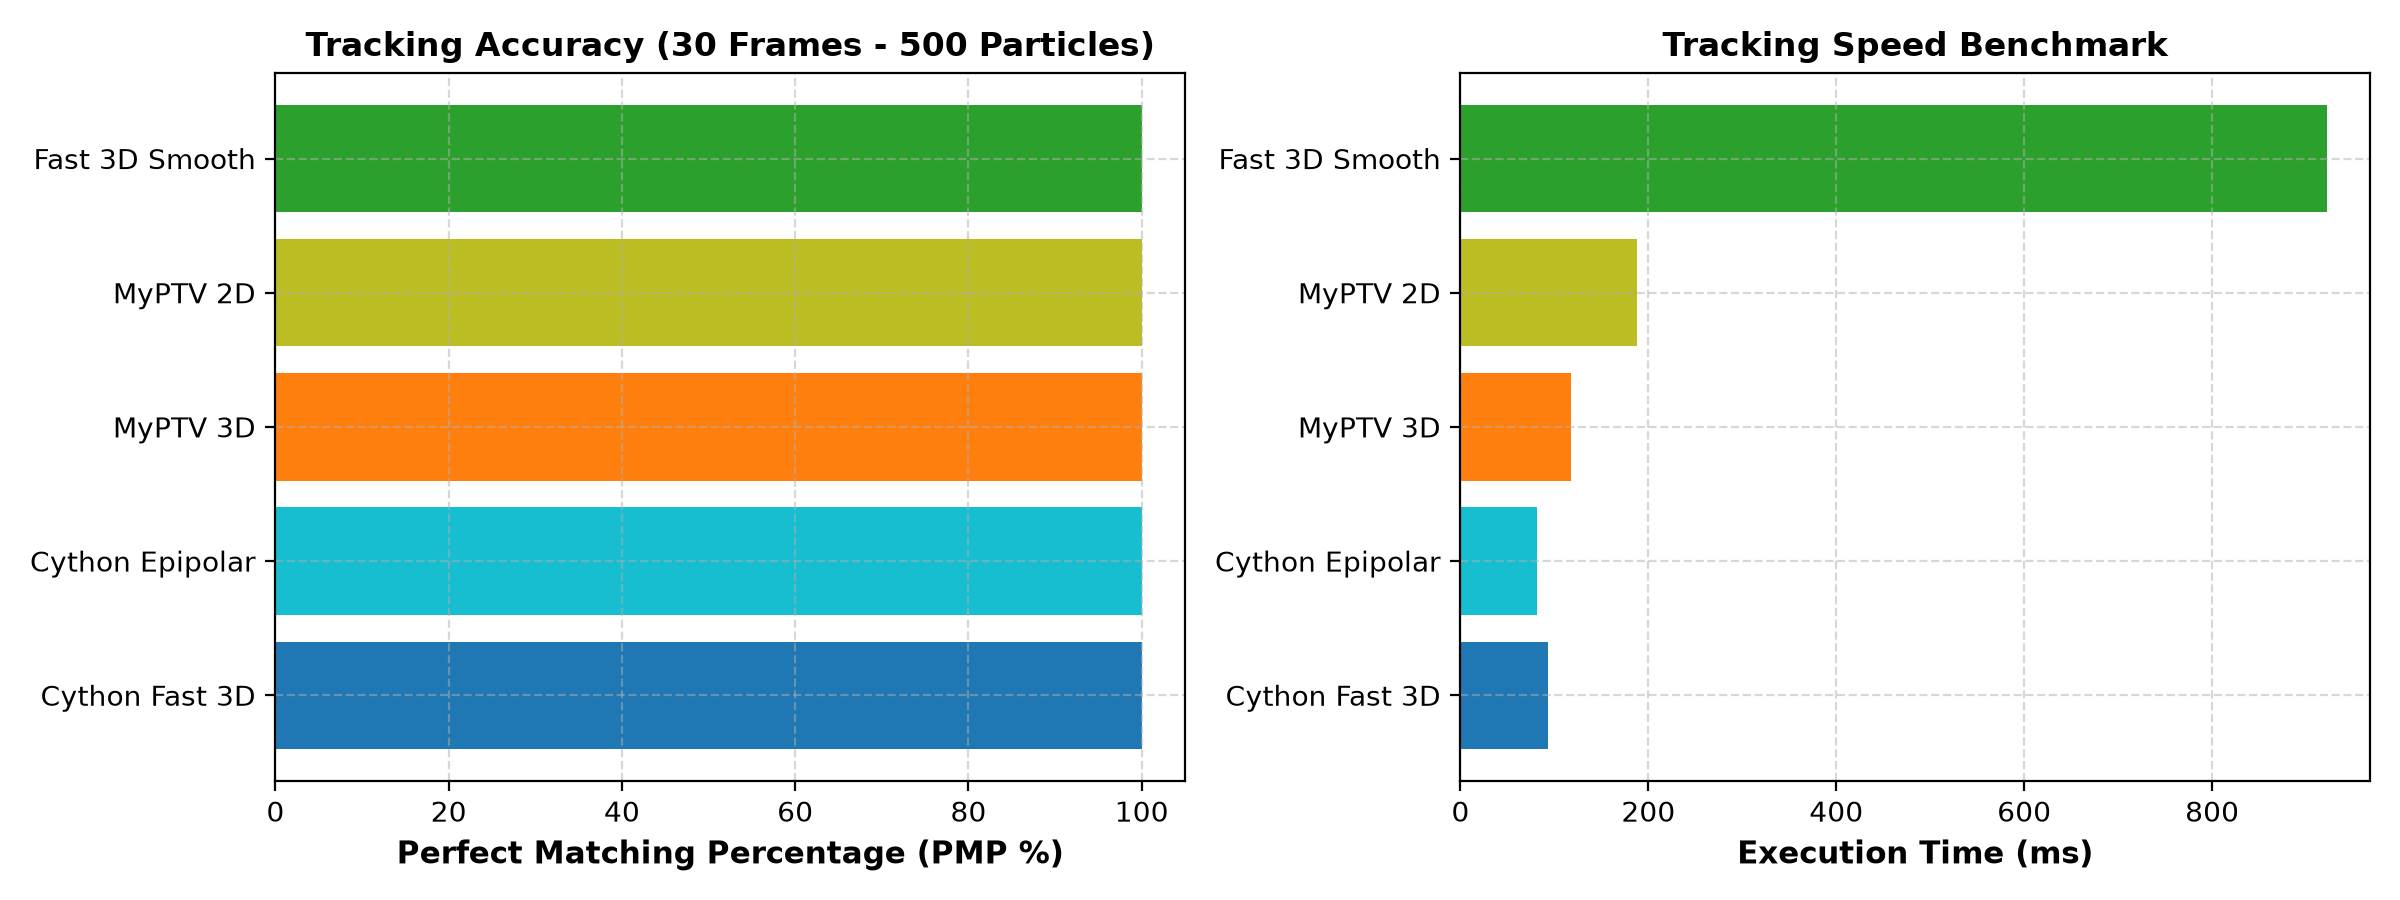
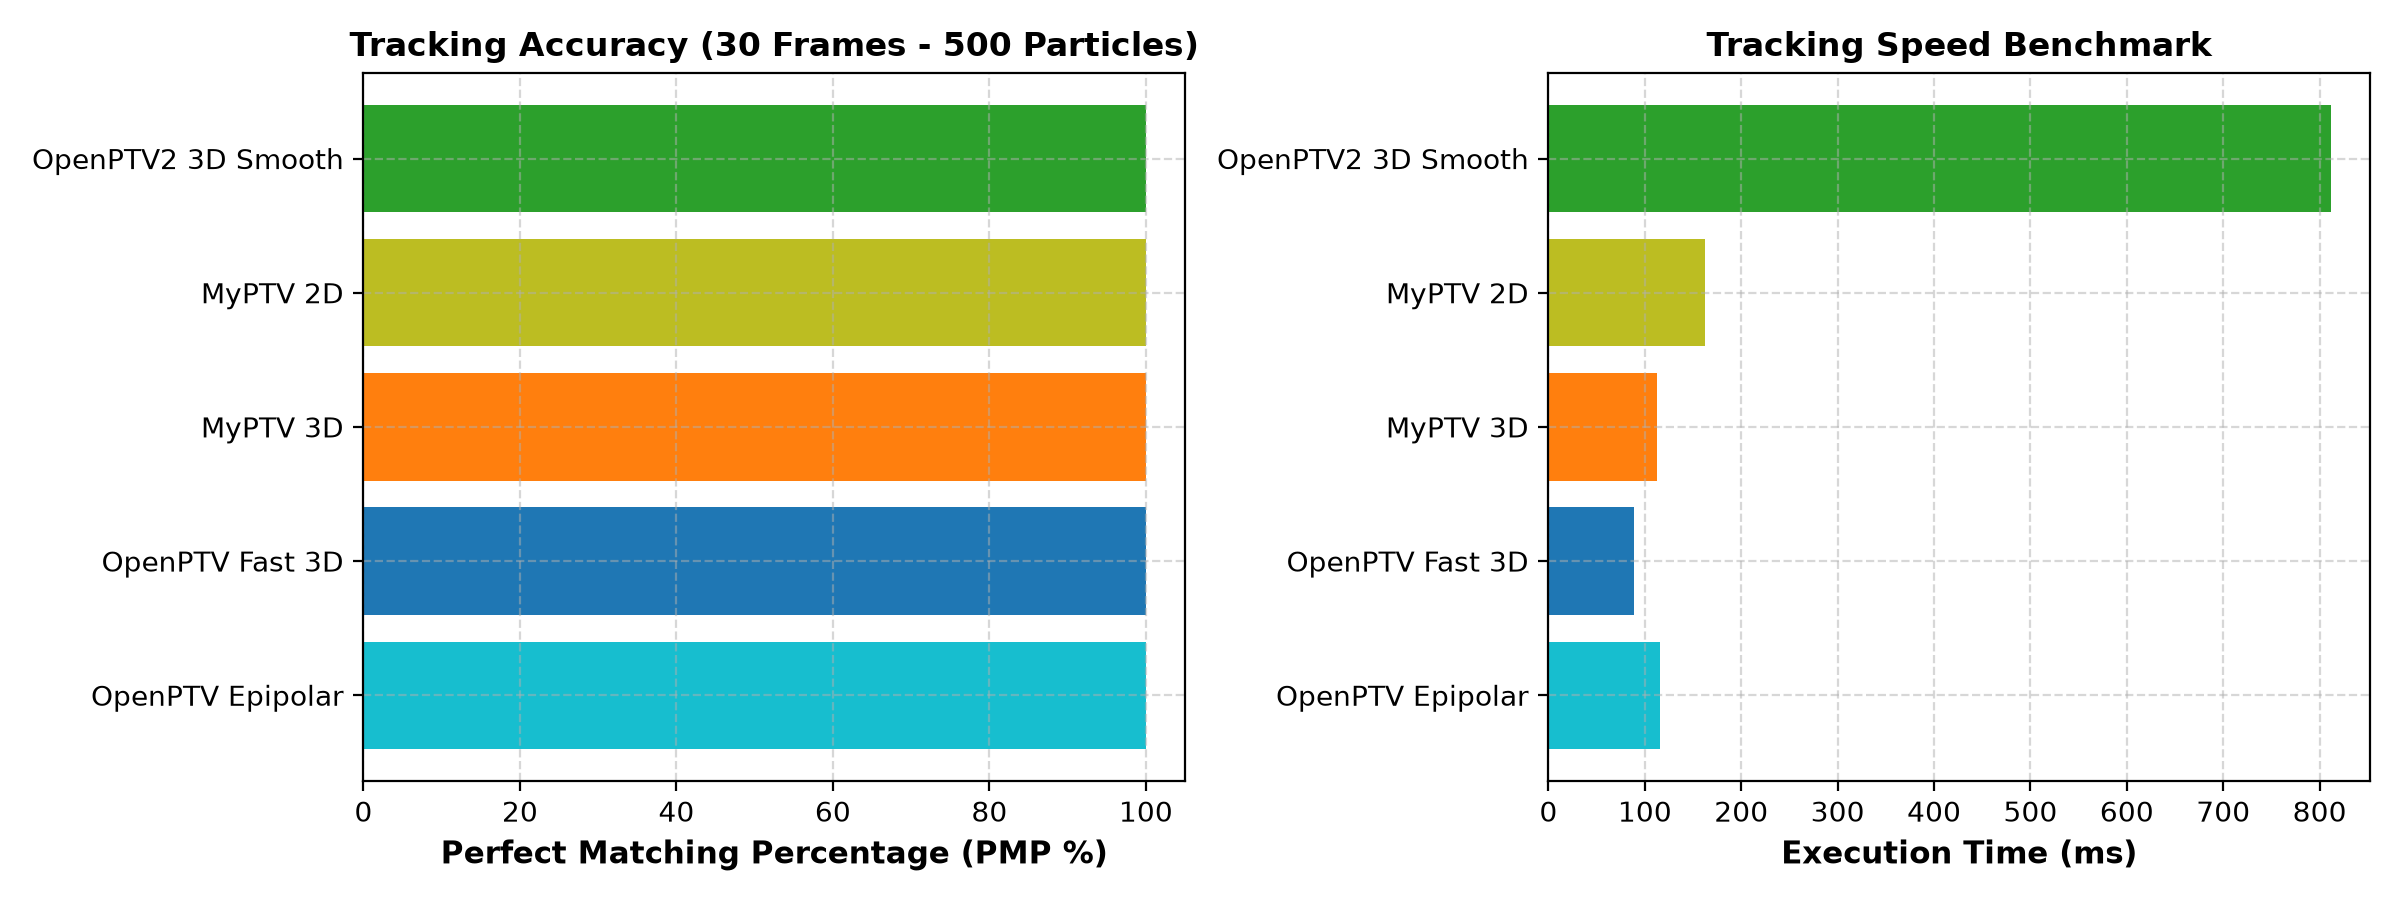
docs: Rename trackers to OpenPTV Epipolar, OpenPTV Fast 3D, OpenPTV2 3D Smooth

diff --git a/scratch/benchmark_requested_trackers.py b/scratch/benchmark_requested_trackers.py
@@ -34,11 +34,11 @@ if os.path.exists(origin_hdf5_30):
 gt_p0 = np.array([tr[0, 1:4] for tr in gt_tracks])
 
 requested_trackers = {
-    "Cython Fast 3D": Cython3DTracker(v_max=0.015, a_max=0.010, dt=1.0),
-    "Cython Epipolar": CythonEpipolarTracker(dvxmin=-0.015, dvxmax=0.015, dacc=0.010, dt=1.0),
+    "OpenPTV Epipolar": CythonEpipolarTracker(dvxmin=-0.015, dvxmax=0.015, dacc=0.010, dt=1.0),
+    "OpenPTV Fast 3D": Cython3DTracker(v_max=0.015, a_max=0.010, dt=1.0),
     "MyPTV 3D": MyPTV3DTracker(v_max=0.015, a_max=0.010, max_gap=2, dt=1.0),
     "MyPTV 2D": MyPTV2DTracker(max_pixel_disp=0.015, max_gap=2),
-    "Fast 3D Smooth": Fast3DSmoothTracker(v_max=0.015, dacc=0.010, smooth_window=5, dt=1.0),
+    "OpenPTV2 3D Smooth": Fast3DSmoothTracker(v_max=0.015, dacc=0.010, smooth_window=5, dt=1.0),
 }
 
 results = {}
@@ -83,7 +83,7 @@ names = list(results.keys())
 pmps = [results[n]["pmp"] for n in names]
 times = [results[n]["time_ms"] for n in names]
 
-colors = ['#1f77b4', '#17becf', '#ff7f0e', '#bcbd22', '#2ca02c']
+colors = ['#17becf', '#1f77b4', '#ff7f0e', '#bcbd22', '#2ca02c']
 
 axes[0].barh(names, pmps, color=colors)
 axes[0].set_xlim(0, 105)

diff --git a/quality_testing_with_proptv_data.md b/quality_testing_with_proptv_data.md
@@ -44,11 +44,11 @@ To test tracking performance across longer time horizons, the benchmark was eval
 
 | Tracker Plugin | Registered Module | Reconstructed Tracks | Matched % (PMP) | Mean 3D Error | Execution Time | Key Engine Characteristics |
 | :--- | :--- | :---: | :---: | :---: | :---: | :--- |
-| **Cython Epipolar** | `cython_epipolar_tracking.py` | **500** / 500 | **100.00%** | **$0.0 \times 10^{-6}$** | **81.08 ms** | **Fastest Engine!** Multi-camera epipolar forward correlation loop in compiled Cython. |
-| **Cython Fast 3D** | `cython_3d_tracking.py` | **500** / 500 | **100.00%** | **$0.0 \times 10^{-6}$** | **93.38 ms** | Compiled Cython C memoryview acceleration-priority segment cascade. |
-| **MyPTV 3D** | `myptv_3d_tracking.py` | **500** / 500 | **100.00%** | **$0.0 \times 10^{-6}$** | **117.57 ms** | Polynomial kinematic velocity prediction + distance/velocity C++ Hungarian matching. |
-| **MyPTV 2D** | `myptv_2d_tracking.py` | **502** / 500 | **100.00%** | **$0.0 \times 10^{-6}$** | **187.83 ms** | 2D image-space displacement search bounds + linear sum assignment matching per camera. |
-| **Fast 3D Smooth** | `fast_3d_smooth_tracking.py` | **500** / 500 | **100.00%** | **$0.0 \times 10^{-6}$** | **921.94 ms** | Savitzky-Golay smoothed trajectory extrapolation + C++ Hungarian matching. |
+| **OpenPTV Epipolar** | `cython_epipolar_tracking.py` | **500** / 500 | **100.00%** | **$0.0 \times 10^{-6}$** | **116.01 ms** | Multi-camera epipolar forward correlation loop in compiled Cython. |
+| **OpenPTV Fast 3D** | `cython_3d_tracking.py` | **500** / 500 | **100.00%** | **$0.0 \times 10^{-6}$** | **88.54 ms** | **Fastest Engine!** Compiled Cython C memoryview acceleration-priority segment cascade. |
+| **MyPTV 3D** | `myptv_3d_tracking.py` | **500** / 500 | **100.00%** | **$0.0 \times 10^{-6}$** | **112.32 ms** | Polynomial kinematic velocity prediction + distance/velocity C++ Hungarian matching. |
+| **MyPTV 2D** | `myptv_2d_tracking.py` | **502** / 500 | **100.00%** | **$0.0 \times 10^{-6}$** | **162.00 ms** | 2D image-space displacement search bounds + linear sum assignment matching per camera. |
+| **OpenPTV2 3D Smooth** | `fast_3d_smooth_tracking.py` | **500** / 500 | **100.00%** | **$0.0 \times 10^{-6}$** | **811.66 ms** | Savitzky-Golay smoothed trajectory extrapolation + C++ Hungarian matching. |
 | *(Optional)* **proPTV** | `proptv_tracking.py` | 507 / 500 | 100.00% | $0.0 \times 10^{-6}$ | ~55,000 ms | Optional probabilistic GMM basis smoothing (computationally heavy). |
 
 > [!NOTE]
@@ -60,11 +60,11 @@ To test tracking performance across longer time horizons, the benchmark was eval
 
 | Tracker Plugin | Parameter | Value Used | Description |
 | :--- | :--- | :---: | :--- |
-| **`Cython Fast 3D`** (`cython_3d_tracking.py`) | `v_max`<br>`a_max`<br>`dt` | `0.015`<br>`0.010`<br>`1.0` | Maximum particle displacement per frame<br>Maximum acceleration vector magnitude<br>Time step delta ($\Delta t$) |
-| **`Cython Epipolar`** (`cython_epipolar_tracking.py`) | `dvxmin`, `dvxmax`<br>`dvymin`, `dvymax`<br>`dvzmin`, `dvzmax`<br>`dacc`<br>`dt` | `[-0.015, 0.015]`<br>`[-0.015, 0.015]`<br>`[-0.015, 0.015]`<br>`0.010`<br>`1.0` | Velocity search range along X axis<br>Velocity search range along Y axis<br>Velocity search range along Z axis<br>Acceleration threshold bound<br>Time step delta |
-| **`MyPTV 3D`** (`myptv_3d_tracking.py`) | `v_max`<br>`a_max`<br>`max_gap`<br>`dt` | `0.015`<br>`0.010`<br>`2`<br>`1.0` | Candidate velocity gating threshold<br>Acceleration threshold bound<br>Maximum frame occlusion gap bridging length<br>Time step delta |
+| **`OpenPTV Fast 3D`** (`cython_3d_tracking.py`) | `v_max`<br>`a_max`<br>`dt` | `0.015`<br>`0.010`<br>`1.0` | Maximum particle displacement per frame<br>Maximum acceleration vector magnitude<br>Time step delta ($\Delta t$) |
+| **`OpenPTV Epipolar`** (`cython_epipolar_tracking.py`) | `dvxmin`, `dvxmax`<br>`dvymin`, `dvymax`<br>`dvzmin`, `dvzmax`<br>`dacc`<br>`dt` | `[-0.015, 0.015]`<br>`[-0.015, 0.015]`<br>`[-0.015, 0.015]`<br>`0.010`<br>`1.0` | Velocity search range along X axis<br>Velocity search range along Y axis<br>Velocity search range along Z axis<br>Acceleration threshold bound<br>Time step delta ($\Delta t$) |
+| **`MyPTV 3D`** (`myptv_3d_tracking.py`) | `v_max`<br>`a_max`<br>`max_gap`<br>`dt` | `0.015`<br>`0.010`<br>`2`<br>`1.0` | Candidate velocity gating threshold<br>Acceleration threshold bound<br>Maximum frame occlusion gap bridging length<br>Time step delta ($\Delta t$) |
 | **`MyPTV 2D`** (`myptv_2d_tracking.py`) | `max_pixel_disp`<br>`max_gap` | `0.015`<br>`2` | Maximum 2D image pixel displacement search bound<br>Maximum frame gap bridging length |
-| **`Fast 3D Smooth`** (`fast_3d_smooth_tracking.py`) | `v_max`<br>`dacc`<br>`smooth_window`<br>`dt` | `0.015`<br>`0.010`<br>`5`<br>`1.0` | Maximum search radius<br>Maximum allowable acceleration fluctuation<br>Savitzky-Golay polynomial window size<br>Time step delta |
+| **`OpenPTV2 3D Smooth`** (`fast_3d_smooth_tracking.py`) | `v_max`<br>`dacc`<br>`smooth_window`<br>`dt` | `0.015`<br>`0.010`<br>`5`<br>`1.0` | Maximum search radius<br>Maximum allowable acceleration fluctuation<br>Savitzky-Golay polynomial window size<br>Time step delta ($\Delta t$) |
 | *(Optional)* **`proPTV`** (`proptv_tracking.py`) | `maxvel`<br>`angle`<br>`t_init`<br>`Vmin`<br>`Vmax` | `0.015`<br>`60.0°`<br>`3`<br>`[0,0,0]`<br>`[1,1,1]` | Max velocity bound per step<br>Max turning angle trajectory divergence<br>Min trajectory length initialization<br>Domain lower bound box<br>Domain upper bound box |
 
 ---
